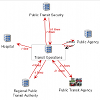
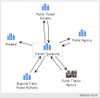
Updated gallery and flow map legend.
git-svn-id: https://wush.net/svn/mindalliance@5685 baad322d-9929-0410-88f0-f92e8ff3e1bd

Changed region(s): [[0.0, 0.0, 0.93, 0.9796], [0.57, 0.2755, 0.99, 0.4898], [0.78, 0.949, 0.99, 1.0]]

diff --git a/channels/trunk/src/main/java/com/mindalliance/channels/pages/components/help/GalleryPanel.java b/channels/trunk/src/main/java/com/mindalliance/channels/pages/components/help/GalleryPanel.java
@@ -51,9 +51,10 @@ public class GalleryPanel extends AbstractUpdatablePanel {
                 .add( "network", "Collaboration network", "A collaboration network summarizes how organizations, roles or agents would, according to a collaboration template, be inter-connected by information communication commitments." )
                 .add( "issuesReport", "Issues report", "The issues report summarizes, categorizes and prioritizes all the issues in a collaboration template that were detected by Channels or were reported by planners.")
         );
-        planner_groups.add( new GalleryGroup( "Collaboration communities" )
-                .add( "requirements", "Collaboration requirements", "Communities can define requirements for how member organizations ought to share information. The diagram shows to what extent these requirements would be satisfied should organizations follow the plan and carry out their checklists." )
-                .add( "checklistsReport", "Checklists", "Each participant in a community has access to checklists generated from the collaboration template on the basis of the participant's current roles and responsibilities in member organizations. A checklist describes what triggers a task assignable to the participant, the steps, including the sharing of information, by which the task is to be carried out, and it provides the contact information of all involved with this task.")
+        planner_groups.add( new GalleryGroup( "Collaboration plans" )
+                .add( "chainsOfCommand", "Chains of command", "Participants can see who they report to and who report to them given their current participation in the collaboration plan. " )
+                .add( "requirements", "Collaboration requirements", "Planners can define requirements for how member organizations ought to share information. The diagram shows to what extent these requirements would be satisfied should organizations follow the plan and carry out their checklists." )
+                .add( "checklistsReport", "Checklists", "Each participant in a collaboration plan has access to checklists generated based on the participant's current roles and responsibilities in member organizations. A checklist describes what triggers a task assignable to the participant, the steps, including the sharing of information, by which the task is to be carried out, and it provides the contact information of all involved with this task.")
         );
         GROUPS.put( "planner", planner_groups );
         // Visualizations for others
